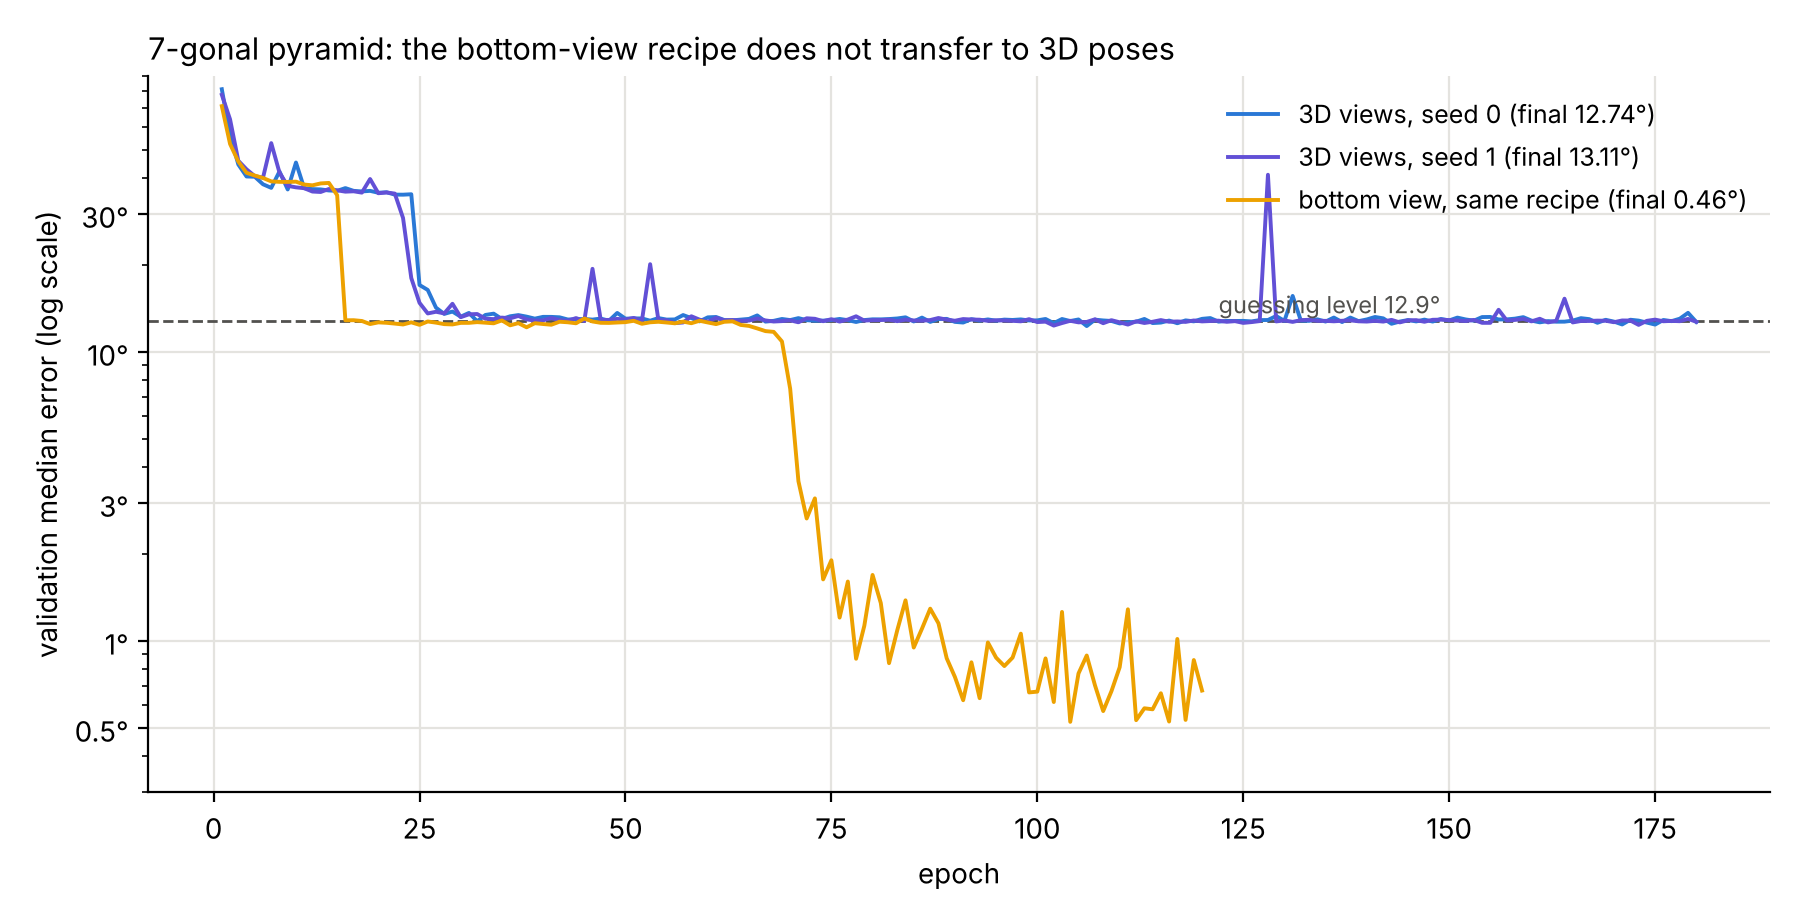
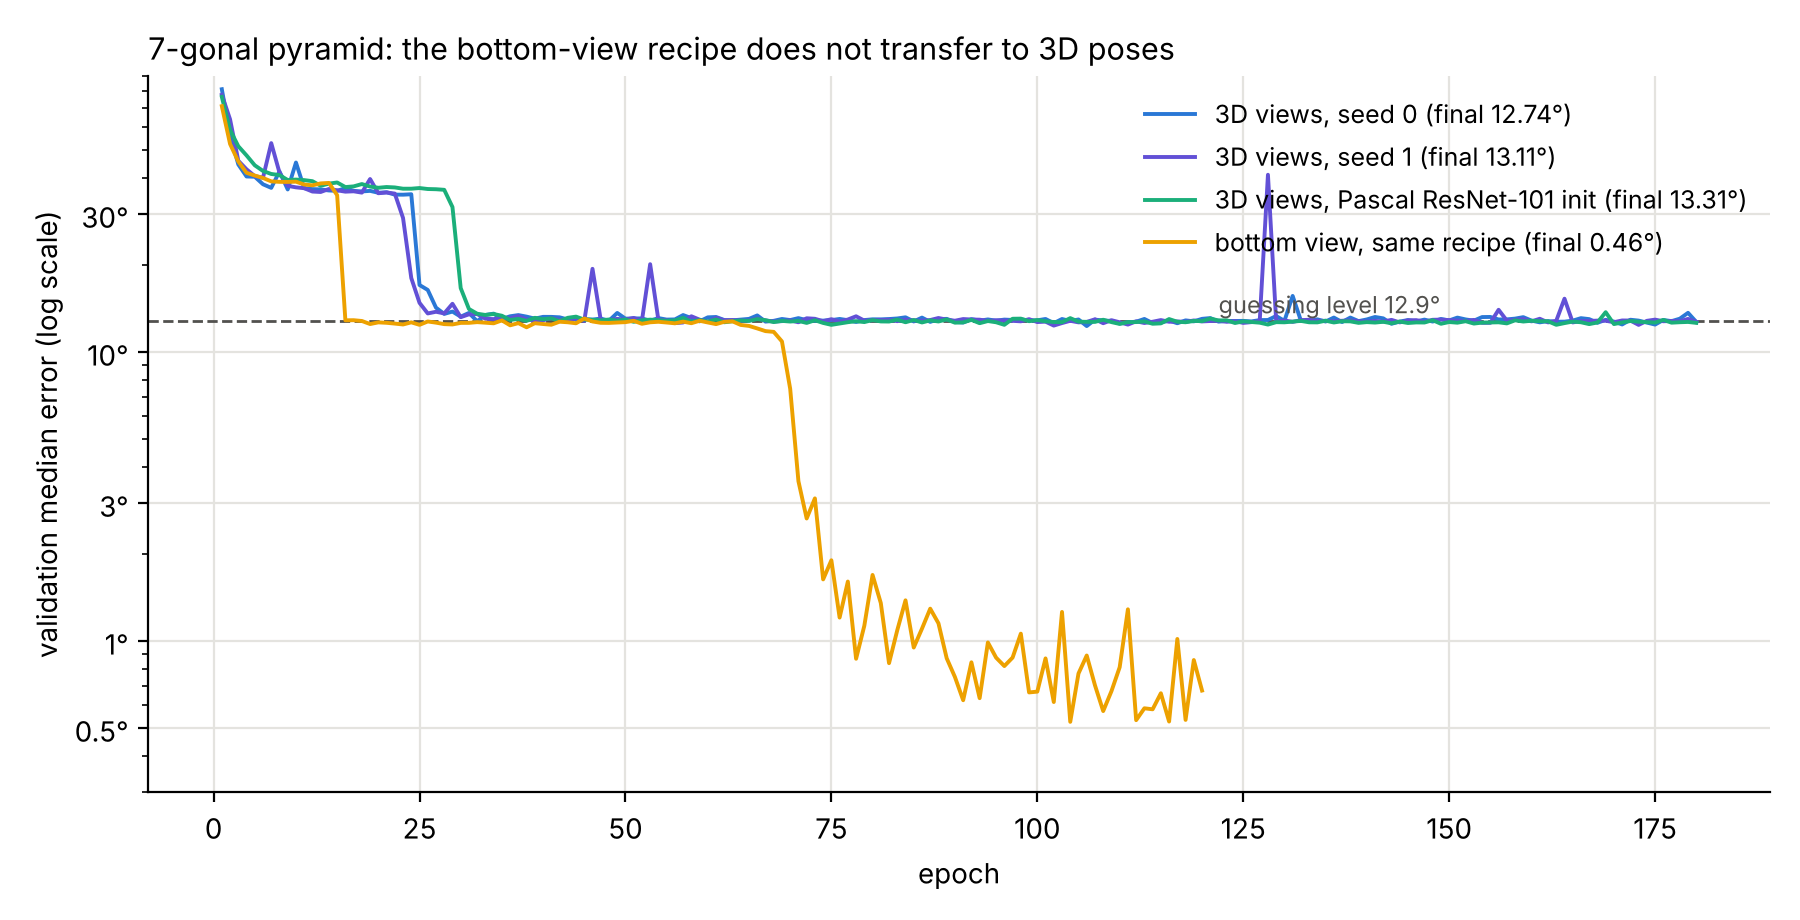
3D 7-gon with Pascal ResNet-101 init: 13.31 deg, guessing level as with ImageNet init
Claude-Session: https://claude.ai/code/session_01CjS2ebrnSKXBxxPg7a3mE2

diff --git a/pose3d/probes/cosdir_interp/plot_chile3d.py b/pose3d/probes/cosdir_interp/plot_chile3d.py
@@ -1,5 +1,6 @@
 """Validation median error by epoch: the bottom-view recipe of the cosine-attention GATr (14x14 map, 368 sphere points,
-start s_h 100, constant learning rate) on the 3D SYMSOL-CHILE 7-gon (poses uniform on SO(3); 2 seeds, 180 epochs) and,
+start s_h 100, constant learning rate) on the 3D SYMSOL-CHILE 7-gon (poses uniform on SO(3); 2 seeds, 180 epochs; plus one run whose
+encoder is the ResNet-101 of the Pascal3D+ run) and,
 for reference, on the bottom view of the same pyramid (120 epochs). Dashed: the guessing level 90/7 = 12.9 deg.
 Input results/chile3d_pyr7_mre_by_epoch.json; writes ../../reports/figures/cosdir_chile3d_pyr7.png."""
 import json, os, matplotlib
@@ -9,6 +10,7 @@ R = json.load(open(os.path.join(HERE, "results", "chile3d_pyr7_mre_by_epoch.json
 fig, ax = plt.subplots(figsize=(9, 4.6))
 ax.axhline(90 / 7, color="#52514e", ls="--", lw=1); ax.text(122, 90 / 7 * 1.06, "guessing level 12.9°", fontsize=8.5, color="#52514e")
 for k, c, lab in (("chile3d_seed0", "#2a78d6", "3D views, seed 0 (final 12.74°)"), ("chile3d_seed1", "#6250d6", "3D views, seed 1 (final 13.11°)"),
+                  ("chile3d_pascalr101_seed0", "#1baf7a", "3D views, Pascal ResNet-101 init (final 13.31°)"),
                   ("bottom7_s100_reference", "#eda100", "bottom view, same recipe (final 0.46°)")):
     v = R[k]["mre"]; ax.plot(range(1, len(v) + 1), v, color=c, lw=1.4, label=lab)
 ax.set_yscale("log"); ax.set_ylim(0.3, 90); ax.set_yticks([0.5, 1, 3, 10, 30])

diff --git a/pose3d/reports/cosdir_bottom_view.md b/pose3d/reports/cosdir_bottom_view.md
@@ -646,6 +646,13 @@ most clearly.
 3. **The Pascal backbone carries some of the turn for near-bottom views** (R^2 about 0.4 under 30 degrees of tilt), and
    ImageNet's does not. That fits the idea that training with synthetic renders to report pose removes some
    invariance. But overall it is far from the R^2 of 1.00 that the bottom-view models reach.
+**Follow-up GPU run (2026-11-24/25, human-approved option (a)): the Pascal backbone as the starting encoder.**
+The same 3D recipe, but with a ResNet-101 encoder started from the Pascal3D+ run's backbone (EMA weights, loaded
+strictly; runner `notebooks/make_chile3d_runner.py` with PASCAL=1), 180 epochs on 4xL4 (69 s per epoch). It made the
+usual first drop and then stayed at the guessing level, like the two ImageNet-started runs: final 32-sample median
+**13.31 degrees**, acc@15 0.569 (curve in `figures/cosdir_chile3d_pyr7.png`). The Pascal initialisation alone does not
+fix the 3D 7-gon.
+
 4. Every number here is far below 1, so neither change alone looks like a full fix. The direct route is to supervise
    the turn: an auxiliary loss on (cos 7 theta, sin 7 theta) from the encoder's features, which are the same for all 7
    equivalent poses. It can be combined with the Pascal initialisation.

diff --git a/pose3d/reports/cosdir_summary.md b/pose3d/reports/cosdir_summary.md
@@ -73,6 +73,8 @@ resolve the turn guesses and has median error about 90/n degrees (the "guessing 
   2 seeds): both stayed at the guessing level (12.74 and 13.11 degrees), as Image2Sphere did (12.67)
   (`figures/cosdir_chile3d_pyr7.png`). Likely: the lobed ring is off-centre and foreshortened for a tilted pyramid, and
   4,500 views cover SO(3) sparsely; untested.
+* **The 3D 7-gon with the Pascal3D+ ResNet-101 as the starting encoder** (the backbone that carries some of the turn
+  for near-bottom views in CPU read-outs): also at the guessing level, 13.31 degrees.
 * Not explained: why identical runs break through at such different epochs (the toy model's seeds agree).
 
 ## Bugs fixed along the way
